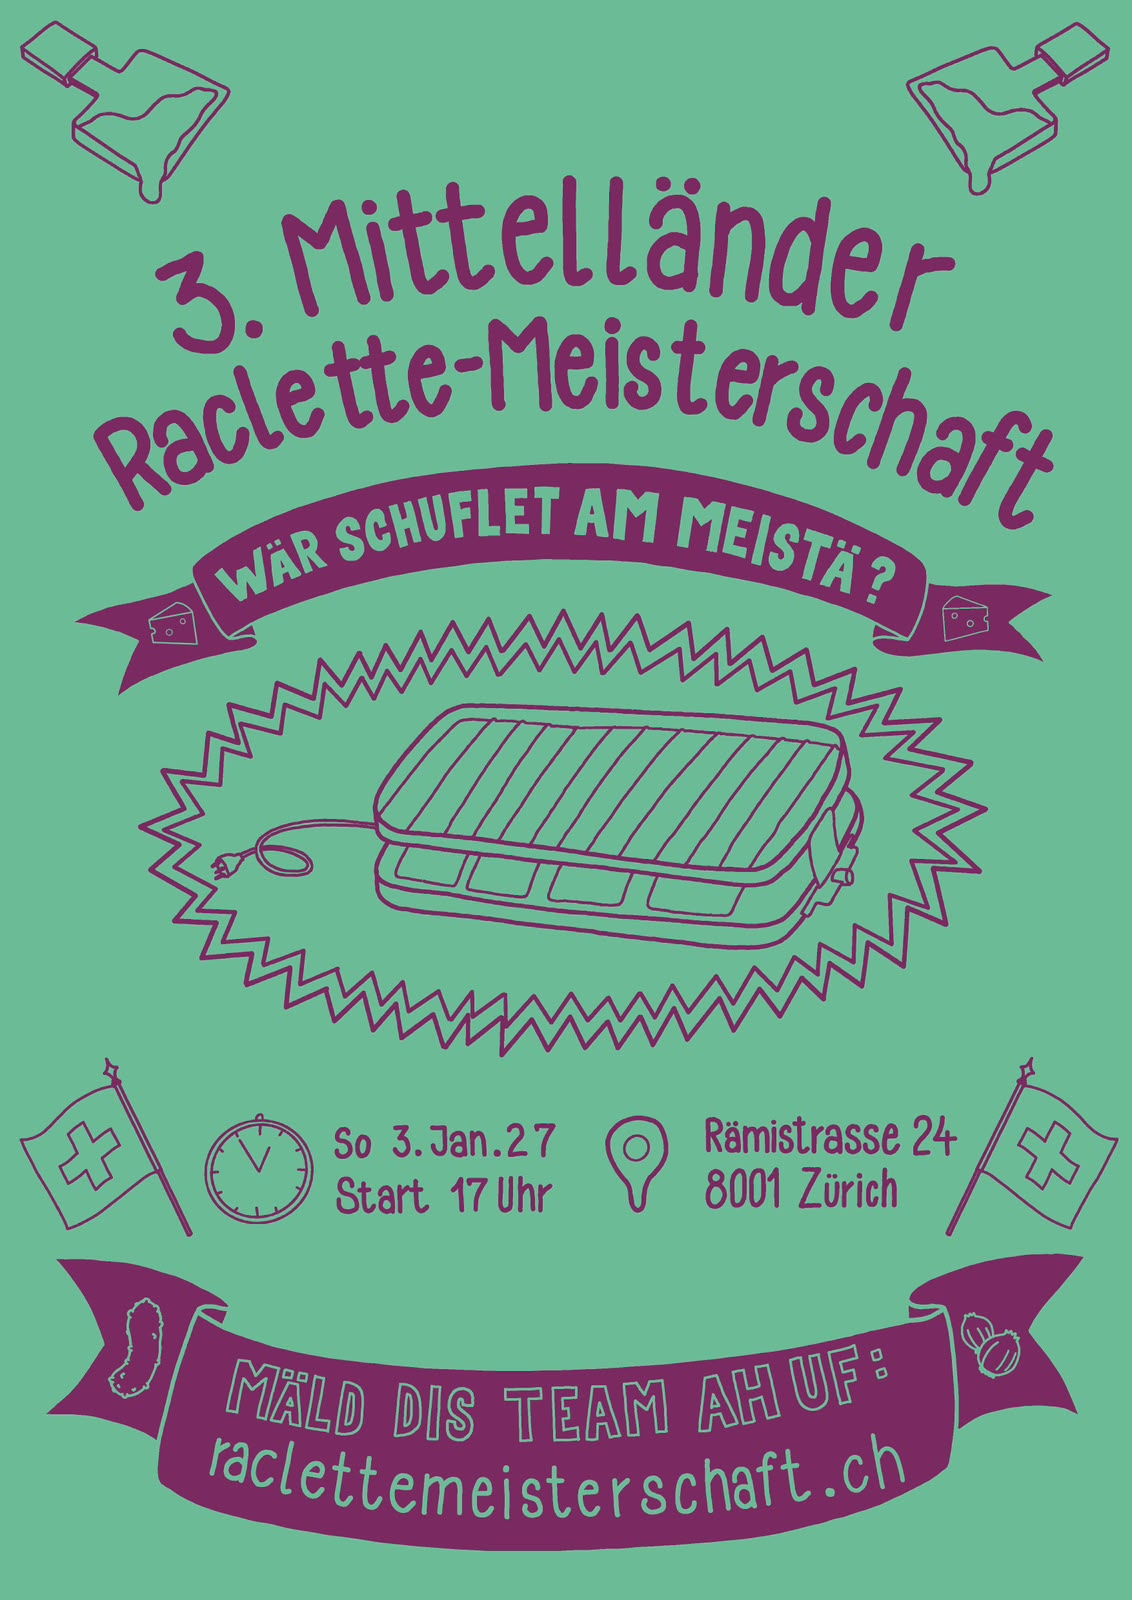
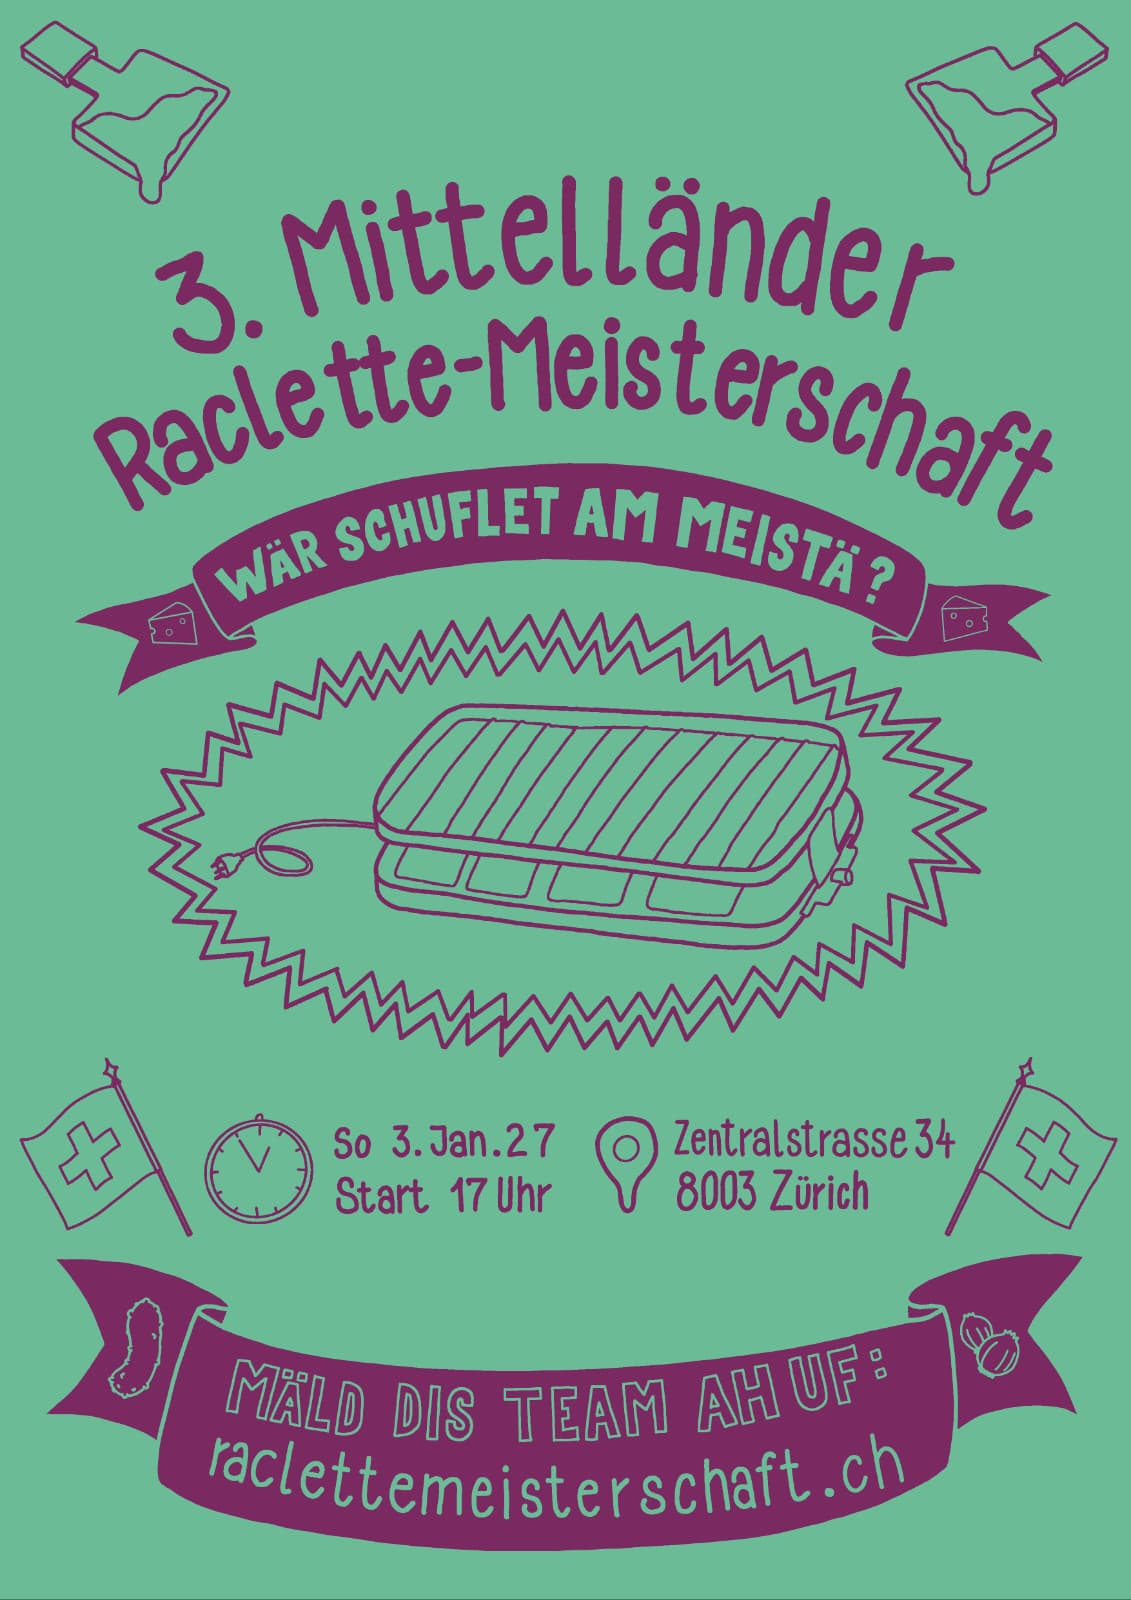
new flyers

diff --git a/src/i18n/en.ts b/src/i18n/en.ts
@@ -26,7 +26,7 @@ const en: Dictionary = {
   },
   home: {
     flyerAlt:
-      'Flyer: 3rd Mittelländer Raclette-Meisterschaft. «Wär schuflet am meistä?» Sunday 3 January 2027, starts 5 pm, Rämistrasse 24, 8001 Zürich. «Mäld dis Team ah uf: raclettemeisterschaft.ch»',
+      'Flyer: 3rd Mittelländer Raclette-Meisterschaft. «Wär schuflet am meistä?» Sunday 3 January 2027, starts 5 pm, Zentralstrasse 34, 8003 Zürich. «Mäld dis Team ah uf: raclettemeisterschaft.ch»',
   },
   about: {
     story: {

diff --git a/src/i18n/de.ts b/src/i18n/de.ts
@@ -60,7 +60,7 @@ const de = {
   },
   home: {
     flyerAlt:
-      'Flyer: 3. Mittelländer Raclette-Meisterschaft. «Wär schuflet am meistä?» So 3. Jan. 27, Start 17 Uhr, Rämistrasse 24, 8001 Zürich. «Mäld dis Team ah uf: raclettemeisterschaft.ch»',
+      'Flyer: 3. Mittelländer Raclette-Meisterschaft. «Wär schuflet am meistä?» So 3. Jan. 27, Start 17 Uhr, Zentralstrasse 34, 8003 Zürich. «Mäld dis Team ah uf: raclettemeisterschaft.ch»',
   },
   about: {
     story: {
